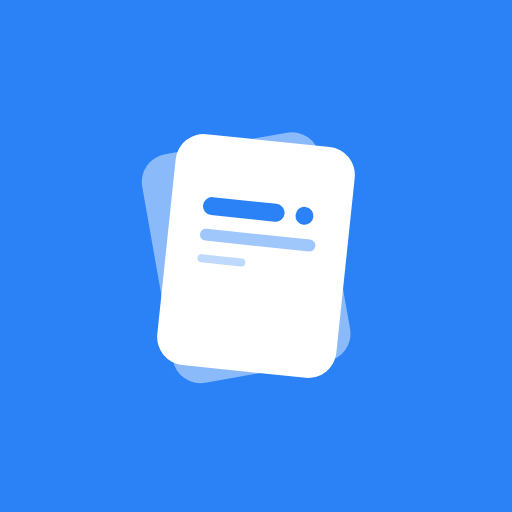
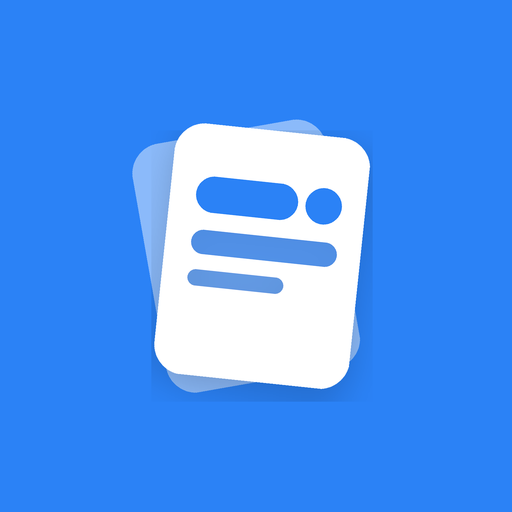
feat(brand): 升级官方Logo条块为双倍加粗版以提升小尺寸识别度并优化README排版

Changed region(s): [[0.25, 0.2188, 0.75, 0.7812]]

diff --git a/README.md b/README.md
@@ -1,160 +1,89 @@
 <div align="center">
 
-<img src="docs/images/logo-blue-white.png" width="110" alt="EnglishJoy Logo" style="border-radius: 24px; box-shadow: 0 8px 24px rgba(43, 130, 246, 0.25);" /><br/>
+<img src="docs/images/logo-blue-white.png" width="76" alt="EnglishJoy Logo" style="border-radius: 16px;" />
 
-# 📱 EnglishJoy
-### — 无广告 · 无登录 · 打开即用 · 纯粹卡片背单词 —
+# EnglishJoy
+**纯粹 · 极简 · 离线的卡片背单词微信小程序**
 
 [![Platform](https://img.shields.io/badge/Platform-WeChat%20MiniProgram-07C160?style=flat-square&logo=wechat&logoColor=white)](https://mp.weixin.qq.com/)
-[![Framework](https://img.shields.io/badge/Framework-Uni--App%20(Vue3)-2B9939?style=flat-square&logo=vue.js&logoColor=white)](https://uniapp.dcloud.net.cn/)
-[![Language](https://img.shields.io/badge/Language-TypeScript-3178C6?style=flat-square&logo=typescript&logoColor=white)](https://www.typescriptlang.org/)
-[![Styling](https://img.shields.io/badge/Styling-UnoCSS-333333?style=flat-square&logo=unocss&logoColor=white)](https://unocss.dev/)
-[![Offline](https://img.shields.io/badge/Status-Offline--First-orange?style=flat-square)](https://github.com/lanzm/EnglishJoy)
+[![Uni-App](https://img.shields.io/badge/Uni--App-Vue3%20%2B%20TS-2B9939?style=flat-square&logo=vue.js&logoColor=white)](https://uniapp.dcloud.net.cn/)
+[![Size](https://img.shields.io/badge/Size-1.75MB%20(<2MB)-success?style=flat-square)](#-快速开始与自主部署)
 [![License](https://img.shields.io/badge/License-MIT-blue.svg?style=flat-square)](LICENSE)
 
----
-
-**EnglishJoy** 是一款专注于高效记忆的**极简卡片背单词**微信小程序。  
-支持**完全自主部署**，让你拥有 100% 属于自己的背单词私有小程序。
-
-摒弃任何社交、积分、任务、PK 等繁杂花哨的干扰，回归记忆卡片（Flashcards）最纯粹的本源。通过**像刷短视频一样流畅的上下滑手势刷单词**，提供绝对专注、秒级启动、**完全离线**的英语记忆空间，**特别适合需要集中、高频、大量记忆词汇的快速突破场景**。
-
-<img src="docs/images/wechat-mp-qrcode.jpg" width="160" alt="WeChat MiniProgram QR Code"/><br/>
-<sub><b>微信扫码 即可体验</b></sub>
-
-[💡 提交 Bug 与建议](https://github.com/lanzm/EnglishJoy/issues) · [🎨 品牌与视觉资源](docs/BRAND.md) · [📖 词书资源说明](#-词书资源说明) · [🛠 开发者运行部署](#-开发者运行与部署)
-
 </div>
 
 ---
 
-## 📸 视觉预览 (Visual Preview)
-
-<div align="center">
-  <table border="0">
-    <tr>
-      <td align="center" valign="bottom">
-        <img src="docs/images/screenshot-home.jpg" width="160" alt="Card View Light"/><br/>
-        <sub><b>卡片主界面 (Light)</b></sub>
-      </td>
-      <td align="center" valign="bottom">
-        <img src="docs/images/screenshot-detail.jpg" width="160" alt="Detail View"/><br/>
-        <sub><b>释义与剖析 (Detail)</b></sub>
-      </td>
-      <td align="center" valign="bottom">
-        <img src="docs/images/screenshot-settings.jpg" width="160" alt="Settings Light"/><br/>
-        <sub><b>设置菜单 (Light)</b></sub>
-      </td>
-      <td align="center" valign="bottom">
-        <img src="docs/images/screenshot-dark-settings.jpg" width="160" alt="Settings Dark"/><br/>
-        <sub><b>设置菜单 (Dark)</b></sub>
-      </td>
-    </tr>
-  </table>
-</div>
+<table border="0" width="100%">
+  <tr>
+    <td width="72%" valign="middle">
+      <p><b>EnglishJoy</b>（小程序名称：<b>EnglishJoyApp</b>）是一款回归记忆卡片（Flashcards）本质的背单词工具。像刷短视频一样上下滑动卡片，带给你专注顺滑的背词心流。</p>
+      <ul>
+        <li>⚡ <b>开屏即用</b>：无任何广告插播、无社交打卡、无需登录注册</li>
+        <li>📦 <b>真·纯离线</b>：内置四级、六级、考研、雅思词库，断网随心背</li>
+        <li>📱 <b>双刷词模式</b>：自测对焦遮挡模式 + 速览高效扫词模式自由切换</li>
+        <li>🎓 <b>学术构词剖析</b>：音节数智能测算、1~5 星难度评估、派生词缀拆解</li>
+        <li>🌓 <b>深浅色与双语</b>：跟随系统暗黑模式，支持中英双语即时切换</li>
+      </ul>
+    </td>
+    <td width="28%" align="center" valign="middle">
+      <img src="docs/images/wechat-mp-qrcode.jpg" width="130" alt="WeChat MiniProgram QR Code" style="border-radius: 10px; box-shadow: 0 4px 12px rgba(0,0,0,0.08);" /><br/>
+      <sub>📱 <b>微信扫码体验</b></sub><br/>
+      <sub><small>EnglishJoyApp</small></sub>
+    </td>
+  </tr>
+</table>
 
 ---
 
-## 🌟 核心特性 (Key Features)
+## 📖 内置词库
 
-### 🛠 自主部署，专属私有 (Self-Hosted & Private)
-- **属于你自己的小程序**：支持完全自主部署与定制，只需拥有一个微信小程序账号，即可几步部署出 100% 属于你自己的背单词小程序，完全自主掌控。
-- **数据隐私绝对安全**：所有词书与背诵进度完全保留在本地，无任何后端服务器上传，隐私无忧。
+所有词书均位于 `src/static/` 目录下，开箱即用：
 
-### 📦 100% 零网络依赖 (Offline-First)
-- **完全离线运行**：内置 **CET4、CET6、考研、雅思** 四本核心词书，本地数据一次性载入，彻底摆脱断网断词的尴尬。（*注：单词真人发音朗读功能需连接网络以获取有道免费语音接口支持*）
-- **本地高效解析**：释义列表、构词法剖析、中英例句对比等核心逻辑完全在本地执行，秒级响应。
-
-### 📱 拟真层叠卡片交互 (Flashcard Interaction)
-- **像刷短视频一样刷单词**：支持流畅的垂直手势拖拽（向上划过进入下一词，向下拖拽退回上一词温习）。交互顺滑跟手，体验如同刷短视频，极易进入“心流”状态，特别适合集中、大量词汇的快速突破记忆。
-- **自测与速览双模式 (Dual Study Modes)**：
-  - **自测检验模式（Quiz）**：释义默认呈真实高斯模糊，轻触卡片触发单反级相机对焦揭晓动效，形成强烈记忆冲撞。主动轻触 5 次掌握操作后，底部引导自动隐去，界面回归沉浸纯粹；
-  - **极速速览模式（Browse）**：直接呈现释义与例句，免除多余点击，专为考前冲刺、大容量快速扫词而生。
-- **纯粹纸质感与底部渐进羽化**：彻底告别生硬贴边的原生滚动条，超长内容在接近卡片底部时平滑自然消隐入微雾中，底端预留安全占位，既保证轻薄呼吸感，又确保末行文字 100% 锐利可读。
-- **3D 叠层视差**：采用层叠 DOM 物理双卡片架构，底层卡片与前景卡片无缝接管，手势阻尼感真实自然。
-
-### 🎓 科学学术深度剖析 (Word Anatomy)
-- **音节智能测算**：依据音位学规则智能剥离词尾静音，精确计算并展现单词音节数，辅助读音辅助记忆。
-- **星级难度评估**：基于词频、词长与当前词书属性，为词汇评估出 1-5 星记忆难度。
-- **词尾派生构词分析**：自动识别并剥离主流学术词尾（如 `-tion`、`-ness` 等）并分析语法词性，若无后缀则自动生成该词的元辅音占比统计。
-
-### ⚡ 0ms 极致直出与全链路零闪烁 (Zero-Flash & Instant Launch)
-- **开屏秒开，彻底告别闪白**：对齐微信客户端原生 Native 窗口底色，配合组件实例化同步记忆直出，移除一切人工延迟与骨架屏抽动，无论何种深浅主题，开屏均丝滑秒开。
-- **系统级深浅色智能联动**：全页面支持无缝跟随手机系统深浅色动态切换，同时支持在抽屉中自由强制指定，亮暗双主题均经过精心调色，对比舒适不伤眼。
-- **完美兼容无感 i18n**：界面支持一键中英双语实时切换，首创“文/A”微章样式替换传统国旗图标，规避真机不同平台系统国旗 Emoji 渲染差异。
-- **高弹性包体积控制**：采用 **运行时动态 Proxy 文件代理技术**，配合 `readFileSync` 在小程序内按需同步读取静态词书，替代 ES6 静态打包，将主包体积压缩 **50%**，安全躲过 2MB 限制线。
+| 词书名称 | 对应文件 | 词汇量 | 适用场景 |
+| :--- | :--- | :---: | :--- |
+| **四级核心词** | `CET4luan_1.json` | 1,162 词 | 大学英语四级考试必备 |
+| **六级进阶词** | `CET6luan_1.json` | 1,228 词 | 大学英语六级高频拔高 |
+| **考研英语** | `KaoYanluan_1.json` | 1,341 词 | 全国硕士研究生入学英语考试 |
+| **雅思词汇** | `IELTSluan_2.json` | 3,427 词 | 雅思学术类（A类）核心与派生词 |
 
 ---
 
-## 🛠 开发者运行与部署 (Development)
+## 🚀 快速开始与自主部署
 
-### 1. 准备工作
-克隆项目到本地：
+只需一个个人微信小程序账号，即可发布属于你自己的专属私有背单词应用：
+
+### 1. 克隆与安装
+
 ```bash
 git clone https://github.com/lanzm/EnglishJoy.git
 cd EnglishJoy
+npm install   # 或 pnpm install
 ```
 
-安装项目依赖（推荐使用 `pnpm` 或 `npm`）：
+### 2. 本地开发与调试
+
 ```bash
-npm install
-# 或者使用 pnpm
-pnpm install
+npm run dev:mp-weixin
 ```
+打开 **微信开发者工具** -> 点击「导入」 -> 选择项目目录下的 `dist/dev/mp-weixin` 即可实时预览与热重载。
 
-### 2. 开发者运行
-* **编译微信小程序**：
-  ```bash
-  npm run dev:mp-weixin
-  ```
-* **运行调试**：
-  打开**微信开发者工具**，点击“导入项目”，选择项目根目录下的 `dist/dev/mp-weixin` 即可实时进行预览和调试。
+### 3. 构建发布生产包
 
-### 3. 生成发布生产包
-编译生产包：
 ```bash
 npm run build:mp-weixin
 ```
-编译成功后，在微信开发者工具中导入 `dist/build/mp-weixin` 目录，检查无误后，点击“上传”按钮提交至微信小程序后台进行审核发布。
+编译产物位于 `dist/build/mp-weixin`（整包大小仅 **1.75MB**，完全符合微信 2MB 限制）。在微信开发者工具中导入后，点击右上角 **「上传」** 提交微信审核即可。
 
-### 4. ⚠ 微信服务器域名白名单配置 (Domain Whitelist)
+### 4. 语音发音域名配置
 
-由于小程序发音功能依赖有道 TTS 语音接口，为确保**真机运行/正式版中语音发音功能正常**，您必须在微信小程序管理后台配置服务器安全域名：
-
-1. 登录 [微信公众平台 (mp.weixin.qq.com)](https://mp.weixin.qq.com/)。
-2. 进入 **「开发」 -> 「开发管理」 -> 「开发设置」 -> 「服务器域名」**。
-3. 在 **`request 合法域名`** 中，添加有道语音发音接口域名：
-   ```text
-   https://dict.youdao.com
-   ```
-
-> [!TIP]
-> 在微信开发者工具中调试时，可勾选 **「详情 -> 本地设置 -> 不校验合法域名、web-view（业务域名）、TLS版本以及HTTPS证书」** 进行本地测试，但真机发布前必须完成上述合法域名配置。
-
----
-
-## 📖 词书资源说明 (Wordbooks)
-
-静态词书资源文件存放在 `src/static/` 下：
-*   **CET-4** (`CET4luan_1.json`)：大学英语四级乱序核心词
-*   **CET-6** (`CET6luan_1.json`)：大学英语六级乱序核心词
-*   **考研英语** (`KaoYanluan_1.json`)：考研英语大纲高频核心词
-*   **雅思考试** (`IELTSluan_2.json`)：雅思考试核心词汇及派生词
-
-每个单词的存储数据结构高度精简，最大限度压缩离线体积：
-```json
-{
-  "w": "access",                                    // 单词
-  "p": "'ækses",                                    // 英音/美音音标
-  "t": [["v", "获取"], ["n", "接近，入口"]],         // 词性与释义
-  "s": [                                            // 中英双语真实学术例句
-    ["Users can access their voice mail remotely.", "用户可以远程获取语音邮件。"]
-  ]
-}
+若需使用在线真人语音发音，请在 [微信公众平台](https://mp.weixin.qq.com/) 的 **「开发管理 -> 开发设置 -> 服务器域名 -> request 合法域名」** 中添加：
+```text
+https://dict.youdao.com
 ```
 
 ---
 
-## 🤝 许可证 (License)
+## 🤝 开源协议
 
-本项目基于 [MIT License](LICENSE) 协议开源。欢迎在此基础上二次开发或进行非商业性与商业性二次分发。
+本项目基于 [MIT License](LICENSE) 协议开源。欢迎自由 Star、Fork、定制二次开发！
